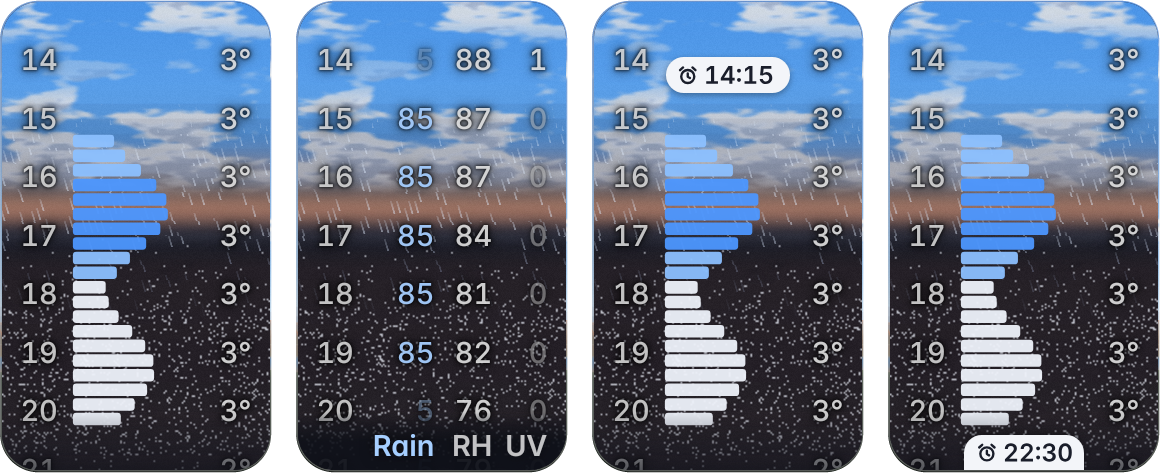
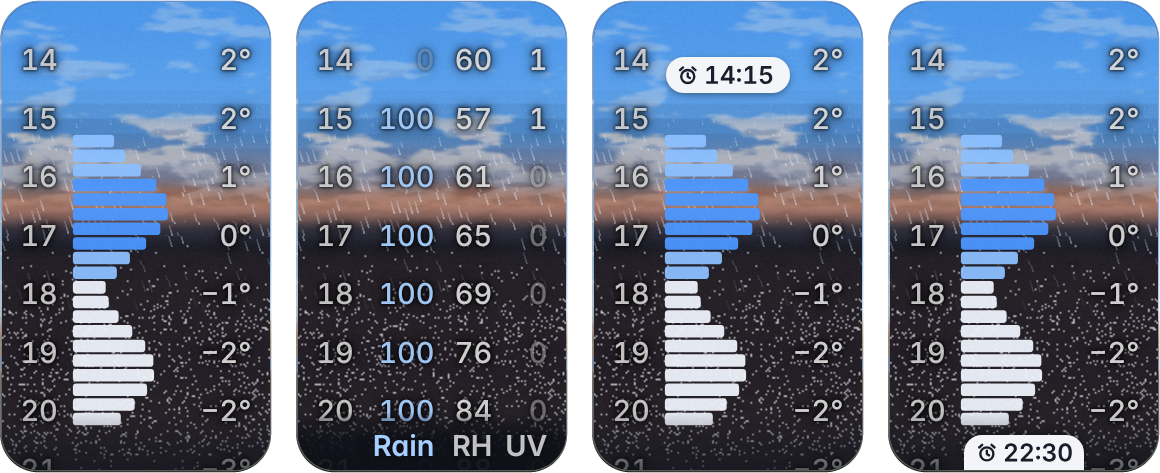
docs(readme): refresh the images with the new clouds and bars
hero.gif, skylines.png and column.png are re-rendered on the phone with the
realistic clouds and the coherent weather pipeline (solid likely bars,
outlined possible bars). The automatic-skyline tile (Florence) is left out
because OpenStreetMap's Overpass servers were down; the grid now skips
missing renders, and `tools/readme_shots.sh auto` redoes just that tile.

Agent: Claude Opus 5.5

diff --git a/README.md b/README.md
@@ -14,7 +14,7 @@ An Android home-screen widget that shows your city's skyline under the sky you h
 
 <img src="docs/img/skylines.png" alt="All skylines by day">
 
-The 11 hand-drawn skylines were made by **Claude Opus 5.5**, one AI agent per city. Florence (last) is automatic.
+The 11 hand-drawn skylines were made by **Claude Opus 5.5**, one AI agent per city.
 
 ## Timeline
 
